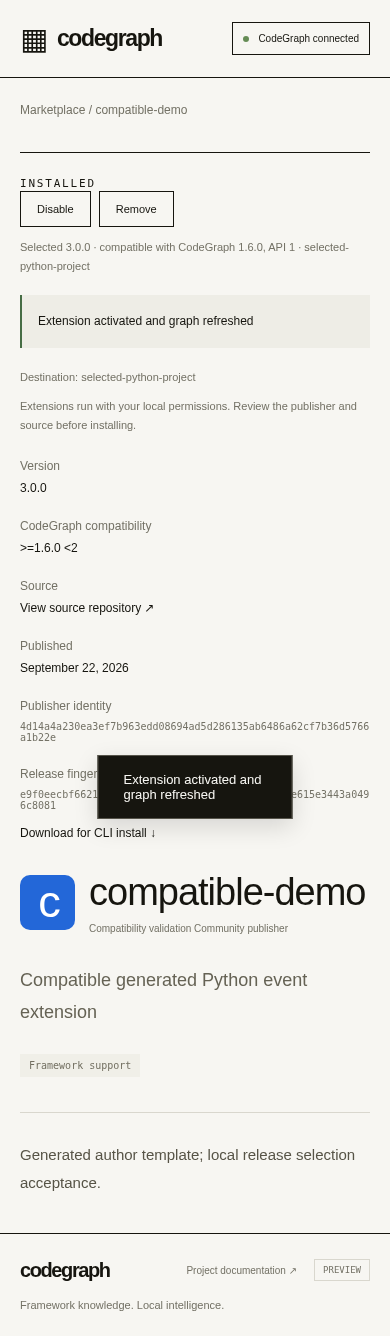
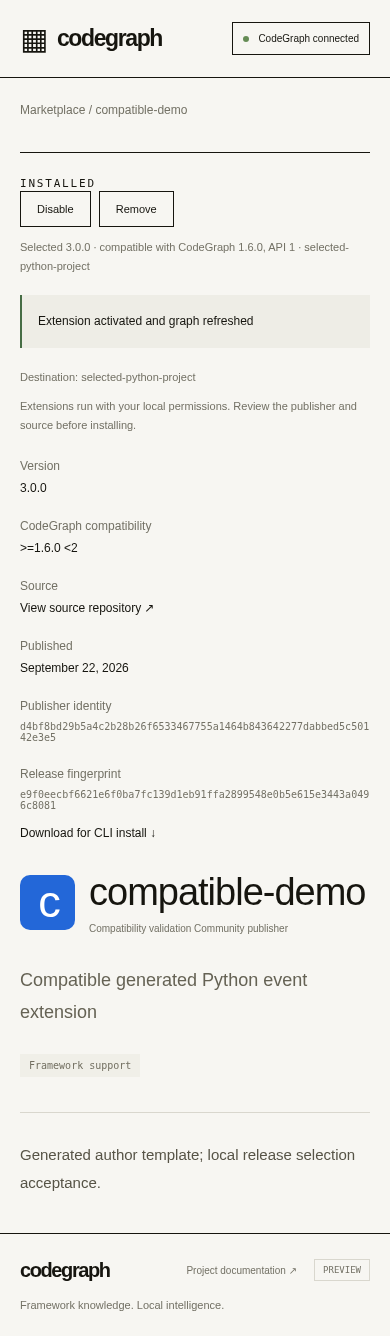
Finalize compatible-release evidence including exact build pins

Changed region(s): [[0.2462, 0.5217, 0.7692, 0.6138], [0.0615, 0.5217, 0.1538, 0.5524]]

diff --git a/docs/validation/extensions-compatibility-20260922.md b/docs/validation/extensions-compatibility-20260922.md
@@ -3,7 +3,8 @@
 Scoped milestone on draft PR [#1911](https://github.com/colbymchenry/codegraph/pull/1911),
 branch `feature/extensions-author-kit-20260922`. Source commits
 `eab93c311434e1a5878c680a52b8c072da5ff772` and
-`79f2d9f1cab2e19ad35fb99f4e215da8f9d5fdfa`. The latter is the clean revision used
+`79f2d9f1cab2e19ad35fb99f4e215da8f9d5fdfa`, with semver identity follow-up
+`0730549f2a57f6cb7e4b70215a29ba59c03d89df`. The latter is the clean revision used
 by all final runtime/browser/focused checks. Subsequent evidence changes only
 documentation. No merge, release, public npm publication or hosted deployment.
 
@@ -45,8 +46,8 @@ From this checkout, with installed development dependencies:
 npm run build
 npx vitest run __tests__/extension-releases.test.ts __tests__/extension-marketplace.test.ts __tests__/extension-author.test.ts __tests__/plugins.test.ts __tests__/extension-explore.test.ts __tests__/npm-sdk.test.ts __tests__/cli-install-init.test.ts __tests__/cli-version.test.ts --maxWorkers=2 --minWorkers=1
 node --test scripts/validation/extensions-runtime.test.cjs
-PLAYWRIGHT_MODULE=/absolute/path/to/playwright COMPAT_OUTPUT=.qa/recovery/compatibility-verified node scripts/validation/extensions-compatibility.cjs
-PLAYWRIGHT_MODULE=/absolute/path/to/playwright BROWSER_OUTPUT=.qa/recovery/compat-browser-regression node scripts/validation/marketplace-browser.cjs
+PLAYWRIGHT_MODULE=/absolute/path/to/playwright COMPAT_OUTPUT=.qa/recovery/compatibility-final node scripts/validation/extensions-compatibility.cjs
+PLAYWRIGHT_MODULE=/absolute/path/to/playwright BROWSER_OUTPUT=.qa/recovery/compat-browser-final node scripts/validation/marketplace-browser.cjs
 ```
 
 The browser scripts use local registries and Chrome (`/opt/google/chrome/chrome`)
@@ -58,19 +59,23 @@ saved checkout; output overrides keep earlier evidence intact.
 
 | Check | Result | Duration |
 |---|---|---:|
-| Final engine/assets/viewer build | exit 0 | 32.724 s |
-| Focused installer/registry/author/runtime/retrieval/SDK/CLI tests | 8 files, 43 tests passed; exit 0 | 18.087 s |
-| Compiled worker lifecycle, isolation and rollback | 2 tests passed; exit 0 | 7.520 s |
-| Generated-extension browser/headless compatibility matrix | 9 acceptance checks, 11 CLI subprocess receipts; exit 0 | 24.301 s |
-| Existing publisher/lifecycle/connection browser regression | 11 checks; exit 0 | 14.119 s |
+| Final engine/assets/viewer build | exit 0 | 34.146 s |
+| Focused installer/registry/author/runtime/retrieval/SDK/CLI tests | 8 files, 44 tests passed; exit 0 | 17.392 s |
+| Compiled worker lifecycle, isolation and rollback | 2 tests passed; exit 0 | 7.598 s |
+| Generated-extension browser/headless compatibility matrix | 9 acceptance checks, 12 CLI subprocess receipts; exit 0 | 25.074 s |
+| Existing publisher/lifecycle/connection browser regression | 11 checks; exit 0 | 13.848 s |
 
-The build ran with the four changes later committed in `79f2d9f` still dirty;
-its source bytes match that commit. Final focused, worker and both browser runs
-used clean `79f2d9f`. The earlier first matrix attempt at `eab93c3` failed:
+The final build ran with the three changes later committed in `0730549` still
+dirty; its source bytes match that commit. Final focused, worker and both
+browser runs used clean `0730549`. The earlier first matrix attempt at `eab93c3` failed:
 root `--version` swallowed an extension pin and printed `1.6.0` with exit 0.
 Scoped positional parsing and a CLI regression test fixed this real failure.
 That failed receipt/log remains `.qa/recovery/compat-e2e.{json,log}`; it is not
-counted as passing evidence. Execution completed without task interruption.
+counted as passing evidence. Review then found that semver normalization drops
+build metadata. `0730549` retains that immutable identity and adds a unit check
+and real `1.10.0+fixture.1` registry pin/download/graph check. All final checks
+passed after that fix; earlier successful receipts remain separate. Execution
+completed without task interruption.
 
 ## Acceptance observations
 
@@ -95,7 +100,9 @@ counted as passing evidence. Execution completed without task interruption.
   `1.10.0` and its graph. A valid `3.0.0` update succeeded in browser and CLI,
   removed stale version labels and still skipped incompatible `9.0.0`.
 - Exact artifact URL `1.9.0` and local file `1.10.0` installations remained
-  exact. Removal cleared their graph contributions.
+  exact. The exact registry pin `1.10.0+fixture.1` also retained its full identity
+  through the encoded artifact URL and graph label. Removal cleared their graph
+  contributions.
 - Unit checks reject wrong downloaded IDs/versions, unsupported APIs,
   incompatible actual manifests, integrity mismatches, duplicate catalog
   versions and stale preview bindings. They exercise disjoint engine ranges,

diff --git a/docs/validation/extensions-recovery-20260922.md b/docs/validation/extensions-recovery-20260922.md
@@ -215,7 +215,7 @@ Per-repository records, hashes and all nine raw responses are under
   See [author acceptance](extensions-author-20260922.md) for its separate evidence
   and limits; the original recovery scripts alone did not satisfy this gate.
 - The compatible-version gap was subsequently closed for Linux/local in
-  `79f2d9f`: browser and headless registry installs select the highest compatible
+  `0730549`: browser and headless registry installs select the highest compatible
   stable semver; exact pins and automatic no-downgrade updates are verified.
   See [compatible release acceptance](extensions-compatibility-20260922.md).
 - Exception rollback is tested. Process termination between config/database
